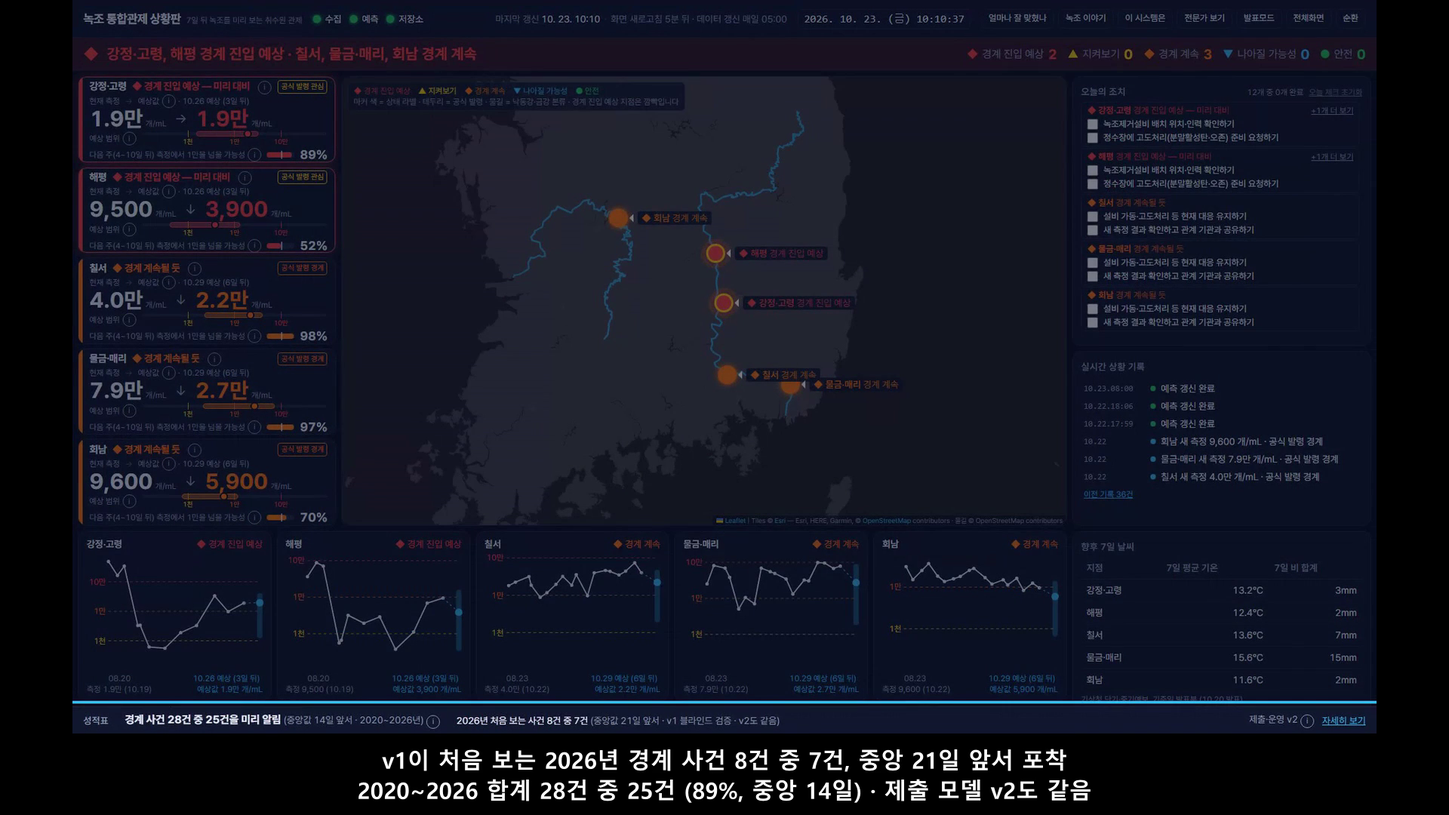
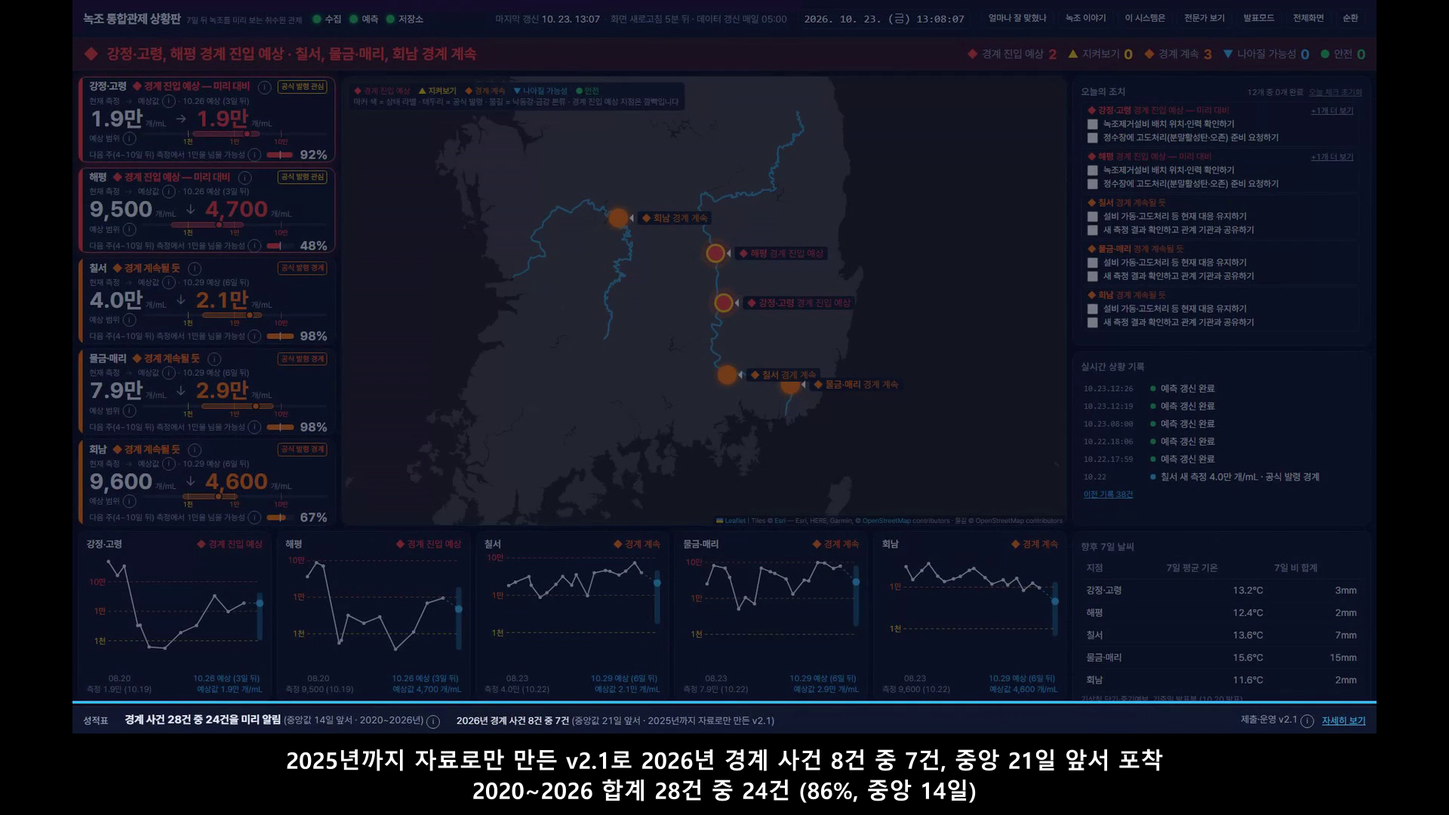
fix(package): 패키지에 derived_constants.json 포함, README v2.1·WAMIS 원값 제외 서술, 데모 영상 v5
- 빌더 CONFIG_FILES 에 config/derived_constants.json 이 빠져 패키지 노트북의 피처 생성 셀이 FileNotFoundError 로
  멈췄다(1부 녹화 중 발견). 추가 후 패키지 노트북이 끝까지 돌고 submission.csv 가 제출본과 같다(sha256 4741a3d3…)
- 사후 계산 전용 모듈(posthoc_v2.py·posthoc_v21.py)을 패키지에서 뺌
- tests/test_package_config.py: config/ 의 모든 파일이 CONFIG_FILES 에 있는지, posthoc*.py 가 빠지는지 검사
- 2026 정답 격리 테스트 허용 목록에 posthoc_2026_v21.parquet(v2.1 동결 뒤 1회 사후 계산) 추가
- 패키지 README: v2.1 구성·핵심 결과·누수 수정, WAMIS 원값 제외 근거, AI 활용(참가자 지시로 전수 점검 → 발견 → 사전등록 수정)
- 데모 영상 v5(sha256 87b6d928…): 1부 v2.1 패키지 노트북 재녹화, 2부 12개 장면 v2.1 화면 재녹화, 자막 v2.1 수치
  (28건 중 24건, 2026 은 사후 계산·블라인드 아님). v4 는 dist/backup_demo_20261023_v4/

Claude-Session: https://claude.ai/code/session_017ddh39e3MD6zytL8k6pS4n

diff --git a/scripts/build_submission_package.py b/scripts/build_submission_package.py
@@ -4,7 +4,7 @@
 패키지 루트(공지 #564): README.md, data/, model/, src/, notebooks/, scripts/, demo/, figures/
   + 루트 파일: submission.csv(제출본), 방법설명서.pdf, requirements.txt(pip freeze), pyproject.toml(설치용)
 - data/   : 대회 번들 + 외부 수집 원천 parquet + MANIFEST.md (git 미포함, 패키지 전용)
-- model/  : 동결 모델(registry current + FROZEN.md·FROZEN_v2.md 표에 적힌 버전) + registry.json + 동결 문서(sha256)
+- model/  : 동결 모델(registry current + FROZEN.md·FROZEN_v2.md·FROZEN_v2.1.md 표에 적힌 버전) + registry.json + 동결 문서(sha256)
 - src/    : 파이썬 패키지 algaecast(재현에 필요한 코드만) + src/config/(설정) + src/docs/(설계 문서)
 - scripts/: verify_frozen.py, leakage_audit.py, verify_package.py
 - demo/   : 저장소 루트 demo/ 에서 복사(AlgaeCast_demo.mp4·.srt·script.md·README_DEMO.md·captures/). raw/·tools/·.gitignore·*.webm 제외.
@@ -48,7 +48,7 @@ LEVEL_FEATURE_FILE = "level_cont_features_S1.parquet"
 # wamis_dam/ 는 통째로, hydro_daily_long 은 WAMIS 출처 행만 뺀 사본을 넣고 가공 수문 피처 파일로 재현한다.
 WAMIS_SOURCES = ("wamis_mn_dtdata", "wamis_wl_dtdata")
 WAMIS_FEATURE_FILE = "wamis_hydro_features_S1.parquet"
-DEMO_SHA_PREFIX = "0a1fb2f4"  # 2026-10-23 v4(예상값 하나로 통일한 화면 재녹화). 이전: v1 6a0d78e3·v2a 43761cbc·v3 5363e22a → dist/backup_demo_2026102*
+DEMO_SHA_PREFIX = "87b6d928"  # 2026-10-23 v5(제출 모델 v2.1 — 1부·2부 재녹화). 이전: v1 6a0d78e3·v2a 43761cbc·v3 5363e22a·v4 0a1fb2f4 → dist/backup_demo_2026102*
 # DataON 유래 파일이 있는(또는 노트북 실행으로 생기는) 폴더 — LICENSE_DataON.txt 를 붙인다
 DATAON_DIRS = ("data/raw/dataon", "data/interim", "data/processed", "src/config")
 DEMO_FILES = ["AlgaeCast_demo.mp4", "AlgaeCast_demo.srt", "script.md", "README_DEMO.md"]
@@ -66,9 +66,15 @@ CONFIG_FILES = [
     "seed.yaml",
     "dam_codes.json",
     "level_cont_stats.json",
+    "derived_constants.json",  # 데이터 유래 상수(연도별 수온 임계·선택 결정) — 계산 자료 메타데이터 포함
 ]
 SRC_SKIP = {"db", "predict"}  # 대시보드 업로드·일일 운영 코드는 재현에 불필요
-SRC_SKIP_FILES = {"live.py", "posthoc.py"}  # test 타깃 로더·사후 검증(전용) — 패키지에서 제외
+SRC_SKIP_FILES = {
+    "live.py",
+    "posthoc.py",
+    "posthoc_v2.py",
+    "posthoc_v21.py",
+}  # test 타깃 로더·사후 검증(전용) — 패키지에서 제외
 SCRIPTS = ["verify_frozen.py", "leakage_audit.py", "verify_package.py"]
 SECRET_PATTERNS = [
     r"serviceKey" "=",
@@ -275,7 +281,7 @@ def checklist(out: Path, verify: dict | None) -> str:
 
 
 def readme(info: dict, frozen: dict[str, str], sizes: dict[str, str], check_md: str) -> str:
-    """제출 패키지 README. frozen = 동결 커밋 앞 7자 {"v1": FROZEN.md, "v2": FROZEN_v2.md}."""
+    """제출 패키지 README. frozen = 동결 커밋 앞 7자 {"v1": FROZEN.md, "v2": FROZEN_v2.md, "v2.1": FROZEN_v2.1.md}."""
     return f"""# AlgaeCast-7 — 수질·수문·기상 융합 기반 댐·하천 유해남조류 7일 예측 (제출 패키지)
 
 2026 DATA·AI 분석 경진대회(KISTI) 문제해결 부문 · 참가자 이재행 · 생성일 {date.today()}
@@ -284,23 +290,23 @@ def readme(info: dict, frozen: dict[str, str], sizes: dict[str, str], check_md: 
 | 위치 | 내용 | 크기 |
 |---|---|---|
 | `README.md` | 이 문서(구성·데이터·모델·실행환경·설치·실행·AI 활용·제출 전 확인사항) | |
-| `submission.csv` | 제출본 = 제출·운영 모델 v2 예측(124행, `station_id,base_date,target_date,pred_cells`, UTF-8 BOM, 예시와 같은 행 순서). v1 제출본은 저장소 태그 `v1-submission` 에 보존 | |
+| `submission.csv` | 제출본 = 제출·운영 모델 v2.1 예측(124행, `station_id,base_date,target_date,pred_cells`, UTF-8 BOM, 예시와 같은 행 순서). 수정 전 제출본은 저장소에 보존(v1 태그 `v1-submission`, v2 동결 커밋 `{frozen['v2']}`) | |
 | `방법설명서.pdf` | 방법 설명서(배경·데이터·통계분석·피처·모델·평가·설명가능성·시스템·재현·한계, 10장) | {sizes.get('pdf', '-')} |
 | `requirements.txt` · `pyproject.toml` | 라이브러리 정확한 버전(pip freeze) · 패키지 설치 정보 | |
-| `data/` | 대회 번들(`data/raw/competition/`, 심사용 — 공개 시 제외·대회 종료 후 폐기, `README_심사용_공개시제외.txt`) + 외부 공공 데이터 스냅샷(parquet) + DataON 가공 수위 피처(`data/processed/level_cont_features_S1.parquet`; DataON 원값은 미포함, 받는 법 `data/raw/dataon/README_GET_DATAON.md`) + `data/raw/MANIFEST.md`(출처·수집일시·라이선스) | {sizes.get('data', '-')} |
-| `model/` | 동결 모델: 회귀 v2(제출·운영)·회귀 v1(블라인드 검증, 보존)·경보 분류기·분위 회귀(분류기·분위는 v1·v2 공통) + `registry.json`(current = v2) + `FROZEN_v2.md`(v2 sha256, 동결 커밋 `{frozen['v2']}`) · `FROZEN.md`(v1 sha256, 동결 커밋 `{frozen['v1']}`) | {sizes.get('model', '-')} |
-| `src/` | 파이썬 패키지 `algaecast`(정렬·피처·모델·평가, 재현에 필요한 코드만) + `src/config/`(지점·피처·모델·시드 설정, `seed.yaml`=42) + `src/docs/`(설계 문서) | {sizes.get('src', '-')} |
-| `notebooks/01_train_eval.ipynb` | 동결 모델 검증(v1·v2) → 데이터 로드·전처리 → 피처(+ v2 상류 피처) → 학습(동결 파라미터, v1·v2) → 2025 검증 지표(v1·v2 나란히) → `submission.csv`(v2) 생성 → 그림. 실행 결과(출력) 포함 | |
-| `scripts/` | `verify_frozen.py`(동결 모델 해시 검증), `leakage_audit.py`(누수 감사), `verify_package.py`(새 venv 재현 검증), `security_scan.txt` | |
+| `data/` | 대회 번들(`data/raw/competition/`, 심사용 — 공개 시 제외·대회 종료 후 폐기, `README_심사용_공개시제외.txt`) + 외부 공공 데이터 스냅샷(parquet; WAMIS 원값 제외 — `data/raw/hydro/hydro_daily_long.parquet` 는 WAMIS 출처 행을 뺀 사본) + DataON 가공 수위 피처(`data/processed/level_cont_features_S1.parquet`; DataON 원값은 미포함, 받는 법 `data/raw/dataon/README_GET_DATAON.md`) + WAMIS 가공 수문 피처(`data/processed/wamis_hydro_features_S1.parquet`, 33열; WAMIS 원값은 미포함, 받는 법 `data/raw/hydro/README_GET_WAMIS.md`) + `data/raw/MANIFEST.md`(출처·수집일시·라이선스) | {sizes.get('data', '-')} |
+| `model/` | 동결 모델: **v2.1**(제출·운영, 데이터 유래 상수 누수 수정판 — 회귀·경보 분류기·분위 회귀) + `registry.json`(current = v2.1) + `FROZEN_v2.1.md`(v2.1 sha256, 동결 커밋 `{frozen['v2.1']}`). 이력(수정 전): v1 회귀·분류기·분위(`FROZEN.md`, 동결 커밋 `{frozen['v1']}`), v2 회귀(`FROZEN_v2.md`, 동결 커밋 `{frozen['v2']}`), v1-fix 회귀(v1 구성 + 수정 피처, 민감도용, `FROZEN_v2.1.md` 표) | {sizes.get('model', '-')} |
+| `src/` | 파이썬 패키지 `algaecast`(정렬·피처·모델·평가, 재현에 필요한 코드만) + `src/config/`(지점·피처·모델·시드 설정, `seed.yaml`=42, `derived_constants.json` — 데이터 유래 상수와 계산 자료 메타데이터) + `src/docs/`(설계 문서) | {sizes.get('src', '-')} |
+| `notebooks/01_train_eval.ipynb` | 동결 모델 검증(`FROZEN.md`·`FROZEN_v2.md`·`FROZEN_v2.1.md`) → 데이터 로드·전처리 → 피처(+ 상류 피처) → 학습(동결 파라미터, v2.1·비교용 v1-fix) → 2025 검증 지표(v2.1·v1-fix 나란히) → `submission.csv`(v2.1) 생성 → 그림. 실행 결과(출력) 포함 | |
+| `scripts/` | `verify_frozen.py`(세 동결 문서 해시 검증), `leakage_audit.py`(누수 감사, 원자료부터 재계산 포함), `verify_package.py`(새 venv 재현 검증), `security_scan.txt` | |
 | `demo/` | 데모 영상 `AlgaeCast_demo.mp4`(2분 28초, 1080p H.264, 한국어 자막) · `AlgaeCast_demo.srt` · `script.md`(콘티) · `README_DEMO.md`(구성·편집 내역) · `captures/`(장면 캡처 6장). {RAW_NOTE} | {sizes.get('demo', '-')} |
 | `figures/` | 방법설명서·발표용 핵심 그림, 대시보드 스크린샷(`dashboard_*.png`), `figures/reports/`(평가·통계 표 원본 — 방법설명서 각주의 출처) | {sizes.get('figures', '-')} |
 
 ## 2. 데이터·모델 요약
 - 타깃: 조류경보제 5지점(해평·강정고령·칠서·물금매리·회남) 유해남조류 세포수(cells/mL), 기준일(base_date)+7일(±3일 매칭) 예측.
-- 입력: 조류경보제 측정(국립환경과학원), 댐·보 운영(K-water delist·WAMIS), 댐유역 하천 일평균수위(**DataON** 국가참조표준 DOI 10.20925/KSRD.74670854.v5, CC BY-NC-SA — DataON 원값은 기본 패키지에 넣지 않고 수위 피처 2열 가공 파일만 포함, 받는 법 `data/raw/dataon/README_GET_DATAON.md`, `LICENSE_DataON.txt` 첨부), ASOS 기상(기상청), 단기·중기예보(2026-10-21 이후 누적). AIDA 정규격자 자료는 계획했으나 미사용(기상 입력은 ASOS 관측소로 대체).
-- 모델: **제출·운영 모델 v2**(2026-10-22 동결, 커밋 `{frozen['v2']}`) = LightGBM 변형 3종(log 가중 회귀 C1 · hurdle C3 · tweedie C2, v1 하이퍼파라미터)에 속별 구성원 cg(Microcystis + 나머지 3속)를 더한 log10 공간 NNLS 앙상블(제출용 세포수, 가중치 c1 0.000 · c3 0.266 · c2 0.373 · cg 0.361) + 경계(+4~+10일 ≥10,000) 분류기(경보 확률) + 분위 회귀 q10/50/90(CQR 보정, 감시 규칙). 회귀 피처 35개 = 선별 30개(VIF·Boruta) + 상류 지점 피처 5열(바로 위 지점의 최근 측정, 해평·회남 결측). 분류기·분위·CQR·운영점은 v1 동결본 그대로라 감시·경보 결과는 v1 과 같다. **블라인드 검증 모델 v1**(2026-10-21 09:44 KST 봉인, 커밋 `{frozen['v1']}`) = 같은 3종 NNLS 앙상블, 피처 30개.
-- 검증: 연도 expanding-window CV(2020~2024) → 2025 홀드아웃 → **v1 동결** → 2026 블라인드 사후 검증(모델 선택·튜닝에 미사용) → v2 는 사전등록 확인 실험(EXP-confirm)으로 채택·동결 → 2026 사후 계산(모델 선택에 2026 미사용. 단 팀은 v1의 2026 결과를 이미 본 뒤 v2를 선택함, 블라인드 아님). 누수 감사: 전 샘플 재계산 불일치 0.
-- 핵심 결과: 2025 홀드아웃(같은 252행) v2 log R² 0.779 · 경계 F1 0.705 · 원단위 R² 0.176, v1 0.780 · 0.682 · 0.164(지속성 F1 0.727, 봉우리 1건이 분산의 43%). **2020~2026년 경계 사건 28건 중 25건(89%)을 첫 경계 초과 측정 기준 중앙 14일 앞서 감시 단계로 포착(지속성 3건)**, v1 봉인 후 처음 보는 **2026년 8건 중 7건을 중앙 21일 앞서** 포착(지속성 2건, 감시·경보는 v2 도 같음). 2026 test 124조합: v1(블라인드) log R² 0.488 · 원단위 R² −0.054 · F1@10k 0.705, v2(블라인드 아님) 0.521 · −0.010 · 0.824(지속성 F1 0.841). 2026 사후 성능 저하와 한계는 방법설명서 6.11절·10장.
+- 입력: 조류경보제 측정(국립환경과학원), 댐·보 운영(K-water delist·WAMIS — WAMIS 원값은 기본 패키지에 넣지 않고 수문 피처 33열 가공 파일만 포함, 받는 법 `data/raw/hydro/README_GET_WAMIS.md`), 댐유역 하천 일평균수위(**DataON** 국가참조표준 DOI 10.20925/KSRD.74670854.v5, CC BY-NC-SA — DataON 원값은 기본 패키지에 넣지 않고 수위 피처 2열 가공 파일만 포함, 받는 법 `data/raw/dataon/README_GET_DATAON.md`, `LICENSE_DataON.txt` 첨부), ASOS 기상(기상청), 단기·중기예보(2026-10-21 이후 누적). AIDA 정규격자 자료는 계획했으나 미사용(기상 입력은 ASOS 관측소로 대체).
+- 모델: **제출·운영 모델 v2.1**(2026-10-23 동결, 커밋 `{frozen['v2.1']}`, 데이터 유래 상수 누수 수정판) = LightGBM 변형 3종(log 가중 회귀 C1 · hurdle C3 · tweedie C2, v1 하이퍼파라미터)에 속별 구성원 cg(Microcystis + 나머지 3속)를 더한 log10 공간 NNLS 앙상블(제출용 세포수, 가중치 c1 0.055 · c3 0.280 · c2 0.267 · cg 0.398) + 경계(+4~+10일 ≥10,000) 분류기(경보 확률, 운영점 p ≥ 0.46 = 놓침:헛경보 비용비 r=3) + 분위 회귀 q10/50/90(CQR 보정 q̂ 0.165, 감시 규칙 q90 ≥ 10,000). 회귀 피처 35개 = 선별 30개(VIF·Boruta) + 상류 지점 피처 5열(바로 위 지점의 최근 측정, 해평·회남 결측). 분류기·분위·CQR·운영점도 수정 피처로 다시 적합했다. 데이터로 계산한 상수는 기준일까지(as-of) 또는 학습기간 자료로만 쓴다: 수위 편차 = 관측소별 직전 365일 평균 대비, 지점별 수온 임계 = 학습기간 측정만(폴드마다, 최종 ≤2025, `src/config/derived_constants.json`). 이력(수정 전): v1(2026-10-21 봉인, 커밋 `{frozen['v1']}`, 같은 3종 NNLS 앙상블·피처 30개), v2(2026-10-22 동결, 커밋 `{frozen['v2']}`, v2.1 과 같은 구성), v1-fix(v1 구성 + 수정 피처, 민감도용).
+- 검증: 연도 expanding-window CV(2020~2024) → 2025 홀드아웃(목표일 ≤2025-12-31 인 252행) → v1 동결(2026-10-21) → v2 사전등록 확인 실험(EXP-confirm)으로 채택·동결(2026-10-22) → 2026-10-23 데이터 유래 상수 전수 점검에서 누수 발견 → 사전등록(FIX-v2.1) 규칙대로 고친 v2.1 을 결과와 무관하게 채택·동결 → 2026 사후 계산(v2.1 동결 뒤 1회. 모델 선택·수정 규칙에 2026 미사용, 단 팀은 v1·v2 의 2026 결과를 이미 봤으므로 블라인드 아님). 누수 감사: 기준일까지 잘라낸 달력 재계산 표본 300·원자료부터 재계산 표본 60 불일치 0, 예전 방식 음성 대조 5/5 검출, 데이터 유래 상수 테스트 15개.
+- 핵심 결과: 2025 홀드아웃(같은 252행) v2.1 rmse_log 0.712 · log R² 0.778 · 원단위 R² 0.175 · 경계 F1 0.705(지속성 F1 0.727, 봉우리 1건이 분산의 43%). **2025년까지 자료로만 만든 모델(v2.1)로 2026년 경계 사건 8건 중 7건을 중앙 21일 앞서 감시 단계로 포착(지속성 2건)**, **2020~2026년 합계 28건 중 24건(86%)을 첫 경계 초과 측정 기준 중앙 14일 앞서 포착(지속성 3건)**. 2026 test 124조합: v2.1 log R² 0.520 · 원단위 R² 0.001 · F1@10k 0.826(지속성 F1 0.841). 누수 수정: 수정 전 v1·v2 가 일부 데이터 유래 상수(수위 편차 관측소 평균·지점별 수온 임계·ASOS 관측소 선정)를 2026 자료까지 포함해 계산했음을 2026-10-23 사후 발견해 사전등록 규칙대로 고쳤고(2020~2025 포착 18 → 17건, 합계 25/28 → 24/28, 2026 은 7/8 로 같음), v1 봉인본의 2026 7/8 은 이력으로만 남긴다. 2026 사후 성능 저하와 한계는 방법설명서 5.11절·6.11절·10장.
 
 ## 3. 실행 환경
 - OS {info['os']}, Python {info['python']}, lightgbm {info['lightgbm']}, scikit-learn {info['scikit-learn']}, pandas {info['pandas']}, numpy {info['numpy']}, jupyterlab {info['jupyterlab']}. **GPU 미사용(CPU 전용)**.
@@ -314,12 +320,13 @@ python -m venv .venv && .venv/Scripts/python -m pip install -r requirements.txt 
 ```
 - 화면에서 셀 단위로 실행해 보려면: `.venv/Scripts/jupyter lab notebooks/01_train_eval.ipynb` (위 2줄 설치 후).
 - 재현 소요 시간: 약 20분(대부분 피처 생성, 8코어 CPU 기준). 결과 `submission.csv` 는 제출본과 바이트 동일(`scripts/verify_package.py` 로 새 가상환경에서 확인).
-- **DataON 원자료는 재현에 필요 없다.** 수위 피처 2열(`level_cont_t0`·`level_cont_diff7`)은 `data/processed/level_cont_features_S1.parquet` 에서 채운다(원자료가 있든 없든 `features_S1` 완전 일치·`submission.csv` 바이트 동일, 2026-10-23 확인). 원자료부터 다시 만드는 경로는 `data/raw/dataon/README_GET_DATAON.md`.
+- **DataON 원자료는 재현에 필요 없다.** 수위 피처 2열(`level_cont_t0`·`level_cont_diff7`)은 `data/processed/level_cont_features_S1.parquet` 에서 채운다(패키지를 만들 때 이 파일이 원자료로 계산한 `features_S1` 의 두 열과 완전히 같은지 검사). 원자료부터 다시 만드는 경로는 `data/raw/dataon/README_GET_DATAON.md`.
+- **WAMIS 원자료도 재현에 필요 없다.** 수문 피처 33열은 `data/processed/wamis_hydro_features_S1.parquet` 에서 채운다. `data/raw/hydro/hydro_daily_long.parquet` 는 WAMIS 출처 행을 뺀 사본(K-water delist·다목적댐·대회 번들 행)이다. 원자료부터 다시 만드는 경로와 같은 값을 받는 공식 경로(공공데이터포털 #3068550·#3040409)는 `data/raw/hydro/README_GET_WAMIS.md`.
 - **외부 API는 재현에 필요 없다.** `data/` 스냅샷만 사용한다. 공공 API 키(.env)는 대시보드 일일 운영(GitHub Actions)에만 쓰이며 패키지에 포함되지 않는다.
 - 대시보드(운영 데모): https://algaecast-7.vercel.app · 저장소: https://github.com/LeeJaeHaeng/AlgaeCast (private)
 
 ## 5. AI 활용범위 및 주요 검토 과정 [검토 필요 — 참가자 직접 검토·수정 예정]
-- **활용 도구**: 기획·검토 — Claude 채팅(claude.ai) [검토 필요: 실제 사용 모델 확인]; 구현 — Claude Code(CLI). 구현 모델은 Claude Fable 5.1(수집·분석·모델·평가·DB·대시보드·데모 영상), 최종 패키징 일부는 Claude Opus 5.5.
+- **활용 도구**: 기획·검토 — Claude 채팅(claude.ai) [검토 필요: 실제 사용 모델 확인]; 구현 — Claude Code(CLI). 구현 모델은 Claude Fable 5.1(수집·분석·모델·평가·DB·대시보드·데모 영상), 데이터 유래 상수 누수 점검·수정(FIX-v2.1)과 최종 패키징 일부는 Claude Opus 5.5.
 - **활용 단계**: 데이터 조사·수집기(T1), 통계분석 노트북(T2), 피처·누수 테스트(T3), 모델 튜닝·실험 러너(T4), 평가 보고서(T5), DB·대시보드·자동화(T6~T8), 제출 패키지·방법설명서 초안·데모 영상(T9).
 - **주요 활용 내용**: 공공 API 수집기(캐시·재시도), 피처 함수와 누수 감사, Optuna 튜닝 파이프라인, 통계 검정·그림, Next.js 관제 대시보드, GitHub Actions 일일 자동화, 데모 영상 녹화·편집 스크립트, 방법설명서 초안(모든 수치는 `figures/reports/` 표에서 인용).
 
@@ -329,15 +336,16 @@ python -m venv .venv && .venv/Scripts/python -m pip install -r requirements.txt 
 |---|---|---|
 | 입력 데이터 | 대회 번들에 공공 API 다수 추가(AIDA 격자 포함) | DataON 국가참조표준 수위와 보 운영자료를 1차 입력으로 확정. AIDA 격자는 미사용(ASOS 대체) |
 | 원단위 R²·NSE 미달 | 6개 변형 × 3개 보정(smearing·isotonic·CQR) 실험, 결과가 좋은 조합 채택 | 채택 절차(CV 기준)를 고정하고 2025 결과를 보고 규칙을 바꾸지 않음. 원단위 지표는 표 첫 줄에 그대로 보고하고 민감도(봉우리 1건 = 분산 43%) 병기 |
-| 경보 체계 | 분류기(a)·(b)·스태킹·q90 규칙 비교 | 2단계로 확정: 감시 = CQR 보정 q90 ≥ 10,000, 경보 = 분류기(b) p ≥ 0.52(놓침:헛경보 비용비 r=3) |
-| 2026 평가 | 평가 타깃 격리 로더·사후 검증 스크립트 | v1 동결(커밋 {frozen['v1']}) 후 사후 검증만 수행(블라인드). 성능 저하도 그대로 기록. v2 의 2026 은 v2 동결 뒤 1회 계산했고, v1 결과를 본 뒤 v2 를 골랐으므로 모든 표에 '블라인드 아님'을 명기 |
+| 경보 체계 | 분류기(a)·(b)·스태킹·q90 규칙 비교 | 2단계로 확정: 감시 = CQR 보정 q90 ≥ 10,000, 경보 = 분류기(b) p ≥ 운영점(놓침:헛경보 비용비 r=3 규칙, v1·v2 0.52 → v2.1 재적합 0.46) |
+| 2026 평가 | 평가 타깃 격리 로더·사후 검증 스크립트 | v1 동결(커밋 {frozen['v1']}) 후 사후 검증만 수행. 성능 저하도 그대로 기록. 뒤에 v1 봉인 당시 일부 상수가 2026 자료를 포함해 계산된 사실을 발견해 v1 의 2026 결과는 이력으로만 표기. v2·v2.1 의 2026 은 각 동결 뒤 1회 계산했고, 앞선 2026 결과를 본 뒤 만든 모델이므로 모든 표에 '블라인드 아님'을 명기 |
 | 우선순위 | 취수용량 가중 우선순위 | 공식 출처가 없는 가중치는 쓰지 않음. 단계 → 경계 확률 순 |
-| 성과 표현 | 2020~2025 경계 사건 20건 중 18건 | 2026 포함 28건 중 25건(89%)·중앙 14일, 2026년 8건 중 7건·중앙 21일로 통일하고 지속성(3건) 병기 |
+| 성과 표현 | 2020~2025 경계 사건 20건 중 18건 | 2026 포함 합계와 2026년을 함께 쓰고 지속성(3건) 병기. v2.1 기준 '2025년까지 자료로만 만든 모델로 2026년 8건 중 7건·중앙 21일, 2020~2026년 28건 중 24건(86%)·중앙 14일'(수정 전 25건(89%)), 수정본은 블라인드라고 부르지 않음 |
+| 데이터 유래 상수 누수 | 참가자 지시로 전수 점검(15개 항목) → 수위 평균·수온 임계·ASOS 선정·보현산댐 문제 발견 → 사전등록 수정 규칙 제안 | 사전등록 승인, v2.1 을 결과와 무관하게 채택, 2026 사후 1회, v1 7/8 은 이력으로 |
 | 대시보드 | 위험 단계 3색 표시 | 공식 발령 × AI 예상 조합 5단계 라벨(경계 진입 예상·지켜보기·경계 계속될 듯·나아질 가능성·안전), 쉽게 보기 기본 |
 | 영상 자료 | CCTV·위성 지수 연계 조사 | 예측 입력에는 쓰지 않음(아래 요약). 향후 과제로 분리 |
 | 원단위 고도화(동결 뒤) | 문헌 기반 7종(R1~R7) 실험과 누적 결합, 규칙상 후보 B(전국 통합 학습 + C1 단독 점예측) | B 기각(2025 원단위 R² 0.166 → −0.220). 견고성 대안 C 는 실행 전 등록한 확인 실험 1회로만 판정하도록 정함(조건 충족·채택 → 아래 사전등록 판정 절차를 거쳐 v2 로 동결) |
 
-**사전등록 판정 절차(제출 모델 v1 → v2) — AI 제안 → 참가자 결정**
+**사전등록 판정 절차(제출 모델 v1 → v2 → v2.1) — AI 제안 → 참가자 결정**
 
 | 단계 | AI 제안 | 참가자 결정 |
 |---|---|---|
@@ -346,22 +354,24 @@ python -m venv .venv && .venv/Scripts/python -m pip install -r requirements.txt 
 | 판정 | 실행·독립 검증: Δ +0.116(하한 +0.053), 대조군 대비 +0.084, 2025 r2_raw 0.166 · rmse_log 0.713 · F1 0.687 · 리드 18/20, 누수 테스트 67개 통과 → 조건 충족 | 채택. 2025 원단위 R² 는 v1 과 같아 개선이 CV 에서만 확인됐다는 점을 그대로 기록 |
 | 2차 고도화(EXP-005) | C 기준 6개 계열(P0~P6)과 종합 기준 (a)~(d) 사전등록, 최선 후보 C + 칼만 구성원 판정 | 기준 미충족(CV +0.040 < +0.08, 2025 rmse_log 0.7227 > 0.7217)으로 기각. P3(단기예보)만 마지막으로 1회 시도해 통과하면 C+P3, 아니면 C 로 사전 결정 |
 | P3 재시도 | 승인 API 표본 호출(중기·특보는 자료 403 → 제외), 단기예보 격자 수집·사전등록·판정 | 미통과(a1 −0.0023 등) → 최종 모델 C 를 v2 로 동결(커밋 {frozen['v2']}), 제출본을 v2 로 교체, v1 제출본은 태그 `v1-submission` 에 보존 |
-| 2026 표기 | v2 의 2026 사후 계산을 v1 과 나란히 보고 | 블라인드 검증 서사는 v1 의 '2026 경계 사건 8건 중 7건'으로 유지. v2 의 2026 수치가 담긴 모든 표에 "모델 선택에 2026 미사용. 단 팀은 v1의 2026 결과를 이미 본 뒤 v2를 선택함(블라인드 아님)" 명기 |
+| 2026 표기 | v2 의 2026 사후 계산을 v1 과 나란히 보고 | 당시에는 블라인드 검증 서사를 v1 의 '2026 경계 사건 8건 중 7건'으로 유지하고, v2 의 2026 수치가 담긴 모든 표에 "모델 선택에 2026 미사용. 단 팀은 v1의 2026 결과를 이미 본 뒤 v2를 선택함(블라인드 아님)" 명기. 이 서사는 아래 누수 수정 뒤 철회 |
+| 누수 수정(FIX-v2.1) | 데이터 유래 상수 15개 항목 점검표와 수정 규칙 R1~R7(수위 편차 as-of, 학습기간 수온 임계, 선택 결정 ≤2024 재계산, 구성 고정, 데이터 적합 부분 재적합, 선별 재실행은 참고만)을 결과 계산 전에 커밋. 영향은 같은 252행·CV 에서 나란히 보고 | 사전등록 승인. 규칙 위반 수정이므로 v2.1 을 결과와 무관하게 채택·동결(커밋 {frozen['v2.1']}), 제출본을 v2.1 로 교체. 2026 은 동결 뒤 1회만 계산하고 결과로 판정을 바꾸지 않음. 헤드라인은 v2.1 로 쓰고 수정본은 블라인드라 부르지 않으며, v1 의 2026 7/8 은 이력으로만 표기 |
 
-- **검토한 대안·실패 사례**: 원단위 R² 개선 6개 변형×3개 보정 — 어떤 조합도 0.2를 넘지 못함(isotonic 은 악화); 경보 분류기·스태킹·q90 규칙 — 2025 전체 F1 에서 지속성(0.727)을 넘지 못함(진입 구간 재현율·PR-AUC·리드타임에서만 우위); hurdle·tweedie 단일 모델 — CV 에서 C1 과 차이 미미; 물모아 공식 예측 벤치마크 — 단계만 제공돼 분류 비교로 전환(누적 중); 외부 유역강수 CSV — 미수령으로 보류. 동결 뒤 원단위 R² 고도화 7종(EXP-004~010: 분산 반영 원단위 복원, 상류 지점 피처, 속별 모델, 영양염, 전국 82개 경보지점 통합 학습, 수질자동측정망, 희소 사건 재표본·가중) — CV 채택 기준(r2_raw +0.10·rmse_log 악화 0.01 이내·리드 유지)을 넘은 3종도 2025 확인에서 원단위 R² 가 v1(0.166)보다 좋아지지 않음(−0.66~0.16); CV 원단위 R² 는 시드만 바꿔도 ±0.02~0.04, 난수 열을 더해도 +0.04 움직이는 잡음이 있음; 원단위 이득 대부분은 새 정보가 아니라 점예측 방식(로그 공간 앙상블 → 원단위 맞춤 단일 모델)에서 나오고 2025 에서 유지되지 않음; 누적 결합 후보 B(낙동강·금강 통합 학습 + C1 단독, CV +0.150)는 2025 −0.220 으로 기각; 새 정보 계열(영양염·자동측정망·전국 통합)은 2025 에서 효과 없음; 견고성 대안 C(v1 + 상류 피처 + 속별 구성원)는 사전등록 확인 실험에서 CV +0.116(대조군 대비 +0.084)·2025 비열등으로 채택 조건 충족(2025 원단위 R² 0.166 으로 v1 과 같음) → v2 로 동결; 2차 고도화(EXP-005: 채수 위치 변경 진단, 변화량 타깃·성장 기작, 과거 단기예보, 칼만 상태공간, 국면·아날로그, 상류 댐 부하) — 사전등록 기준을 넘은 구성 없음(최선 C + 칼만 CV +0.040, P3 단기예보 미통과), 측정 잡음만 있는 완벽한 모형 가정의 추정 상한: 로그 R² 0.91~0.94, 2025 원단위 R² 0.36~0.47; Sentinel-2 위성 지표는 기대 이득 대비 비용이 커 보류(상세 figures/reports/experiments/EXP-summary.md·EXP-005/EXP-summary2.md, 방법설명서 5.8~5.10절).
+- **검토한 대안·실패 사례**: 원단위 R² 개선 6개 변형×3개 보정 — 어떤 조합도 0.2를 넘지 못함(isotonic 은 악화, 수정 전 계산); 경보 분류기·스태킹 — 2025 전체 F1 에서 지속성(0.727)을 넘지 못함(진입 구간 재현율·PR-AUC·리드타임에서 우위, v2.1 재적합에서는 q90 규칙만 0.773 으로 지속성을 넘음); hurdle·tweedie 단일 모델 — CV 에서 C1 과 차이 미미; 물모아 공식 예측 벤치마크 — 단계만 제공돼 분류 비교로 전환(누적 중); 외부 유역강수 CSV — 미수령으로 보류. 동결 뒤 원단위 R² 고도화 7종(EXP-004~010: 분산 반영 원단위 복원, 상류 지점 피처, 속별 모델, 영양염, 전국 82개 경보지점 통합 학습, 수질자동측정망, 희소 사건 재표본·가중) — CV 채택 기준(r2_raw +0.10·rmse_log 악화 0.01 이내·리드 유지)을 넘은 3종도 2025 확인에서 원단위 R² 가 v1(0.166)보다 좋아지지 않음(−0.66~0.16); CV 원단위 R² 는 시드만 바꿔도 ±0.02~0.04, 난수 열을 더해도 +0.04 움직이는 잡음이 있음; 원단위 이득 대부분은 새 정보가 아니라 점예측 방식(로그 공간 앙상블 → 원단위 맞춤 단일 모델)에서 나오고 2025 에서 유지되지 않음; 누적 결합 후보 B(낙동강·금강 통합 학습 + C1 단독, CV +0.150)는 2025 −0.220 으로 기각; 새 정보 계열(영양염·자동측정망·전국 통합)은 2025 에서 효과 없음; 견고성 대안 C(v1 + 상류 피처 + 속별 구성원)는 사전등록 확인 실험에서 CV +0.116(대조군 대비 +0.084)·2025 비열등으로 채택 조건 충족(2025 원단위 R² 0.166 으로 v1 과 같음) → v2 로 동결 → 2026-10-23 데이터 유래 상수 누수 수정으로 같은 구성을 수정 피처로 다시 적합한 v2.1 로 대체(같은 252행 2025 원단위 R² 0.175, v2 0.176; 이 실험들은 모두 수정 전 피처로 계산); 수정 피처로 다시 돌린 선별(참고) — `ss_sum7`·`residence_proxy_ma14` 추가, `outflow_t0`·`ws_mean7` 제외로 목록이 달라졌으나 사전등록대로 채택하지 않음; 2차 고도화(EXP-005: 채수 위치 변경 진단, 변화량 타깃·성장 기작, 과거 단기예보, 칼만 상태공간, 국면·아날로그, 상류 댐 부하) — 사전등록 기준을 넘은 구성 없음(최선 C + 칼만 CV +0.040, P3 단기예보 미통과), 측정 잡음만 있는 완벽한 모형 가정의 추정 상한: 로그 R² 0.91~0.94, 2025 원단위 R² 0.36~0.47; Sentinel-2 위성 지표는 기대 이득 대비 비용이 커 보류(상세 figures/reports/experiments/EXP-summary.md·EXP-005/EXP-summary2.md, 방법설명서 5.8~5.10절).
 - **CCTV·위성 영상 연계 검토(미채택) 요약** (상세: `src/docs/13_CCTV_FEASIBILITY.md`, 방법설명서 10장):
   - 5지점 반경 5 km 안에서 수면이 보이는 공개 CCTV는 강정·고령(낙동강홍수통제소 사문진교 3.9 km), 칠서(계내리 1.5 km, 1080p), 물금·매리(월촌리 2.3 km) 3곳뿐이고, 해평(최근접 6.6 km)과 회남(10 km 안에 없음)은 불가로 판정했다.
   - 대시보드에 영상을 직접 붙이는 것은 불가하다. 낙동강 뷰어는 외부 iframe 을 막고(`X-Frame-Options: sameorigin`), 영상 페이지에 공공누리 표시가 없어 기관과 사전 협의가 필요하며, K-water CCTV 는 30초 재생 제한·공공누리 제4유형(변경 금지)이다.
   - 3지점에 한해 정지영상 주기 캡처로 "영상 녹조 색 지수"(녹색 색도·초과녹색·녹색 면적 비율, 야간·역광·강우·카메라 이동 제외 규칙)를 설계했으나, 이 지수는 **예측 모델 입력에 쓰지 않으며** 실측과의 상관은 한 시즌 이상 자료가 쌓인 뒤 평가한다.
   - 비교용 Sentinel-2 NDCI 는 B5(705 nm) 때문에 실효 해상도가 20 m 이며, 2017~2025년 5지점 구축에 약 7~9 반나절이 든다고 추정했다.
-- **최종 선택 이유**: CV 복합점수 기준 채택 절차를 고정해 홀드아웃 과적합을 막았고, 제출 모델 교체(v1 → v2)도 실행 전에 등록한 조건으로만 판정했다. 운영 목적(발령 선행 판단)에 맞는 지표(log R²·경보 F1·리드타임)로 평가했으며, 재현 가능한 동결 모델과 공개 데이터 스냅샷으로 전 과정을 패키지화했다.
+- **최종 선택 이유**: CV 복합점수 기준 채택 절차를 고정해 홀드아웃 과적합을 막았고, 제출 모델 교체(v1 → v2)도 실행 전에 등록한 조건으로만 판정했다. 데이터 유래 상수 누수는 규칙 위반이므로 결과 계산 전에 등록한 규칙대로 고친 v2.1 을 결과와 무관하게 제출·운영 모델로 정했다. 운영 목적(발령 선행 판단)에 맞는 지표(log R²·경보 F1·리드타임)로 평가했으며, 재현 가능한 동결 모델과 공개 데이터 스냅샷으로 전 과정을 패키지화했다.
 
 ## 6. 라이선스·출처
-`data/raw/MANIFEST.md` 참조(첫 표 라이선스 칸과 '라이선스 확인' 절 — 2026-10-22~23 각 출처 페이지에서 다시 확인). 외부 데이터는 출처별 라이선스를 MANIFEST 에 기록하고 그 조건을 지킨다. 공공데이터포털 자료는 공공누리 제1유형(출처표시) 또는 이용허락범위 제한 없음이고, WAMIS 자료는 공공데이터포털 #3068550(한강홍수통제소_수자원 정보, 이용허락범위 제한 없음) 등록분을 근거로 하며, DataON 수위 자료는 CC BY-NC-SA(저작자표시-비영리-동일조건변경허락)다. 라이선스를 확인하지 못한 물환경정보시스템 수질자동측정소 목록·좌표는 실험(EXP-009) 전용이며 제출 모델에 쓰지 않았고 이 패키지에 넣지 않았다.
+`data/raw/MANIFEST.md` 참조(첫 표 라이선스 칸과 '라이선스 확인' 절 — 2026-10-22~23 각 출처 페이지에서 다시 확인). 외부 데이터는 출처별 라이선스를 MANIFEST 에 기록하고 그 조건을 지킨다. 공공데이터포털 자료는 공공누리 제1유형(출처표시) 또는 이용허락범위 제한 없음이다. WAMIS 자료는 개방 API 의 인증키 없는 엔드포인트로 수집했고(회원가입 안 함, 저장소의 `WAMIS_KEY` 는 실제로는 한강홍수통제소 OpenAPI 키이며 수집에 쓰지 않음), 같은 값이 공공데이터포털 #3068550(한강홍수통제소_수자원 정보)·#3040409(한강홍수통제소_표준수문DB)에 이용허락범위 제한 없음으로 등록돼 있다. DataON 수위 자료는 CC BY-NC-SA(저작자표시-비영리-동일조건변경허락)다. 라이선스를 확인하지 못한 물환경정보시스템 수질자동측정소 목록·좌표는 실험(EXP-009) 전용이며 제출 모델에 쓰지 않았고 이 패키지에 넣지 않았다.
 
+- **WAMIS 원값은 이 패키지에 넣지 않았다.** WAMIS OPEN API 회원약관 제15조④(회원은 서비스를 이용해 얻은 정보를 사전 승낙 없이 복제·제공할 수 없음)가 회원이 아닌 이용자에게도 적용되는지 약관만으로 분명하지 않기 때문이다. 빠진 파일은 `data/raw/wamis_dam/` 과 `data/raw/hydro/hydro_daily_long.parquet` 의 WAMIS 출처 행이다. 대신 가공 수문 피처 `data/processed/wamis_hydro_features_S1.parquet`(33열)를 넣었고, 원값을 받는 공식 경로·라이선스·재생성 명령은 `data/raw/hydro/README_GET_WAMIS.md` 에 적었다. 출처 표시: 한강홍수통제소 국가수자원관리종합정보시스템(WAMIS).
 - **대회 제공 데이터**(`data/raw/competition/`): 참가신청서 경진대회 규정 3항(승인 목적 외 이용 금지, 제3자 열람·제공·대여·판매 금지, 대회 완료 후 폐기, 성과물 발생 시 출처 명시)에 따라 **심사용으로만** 넣었다. 공개할 때는 이 폴더를 빼고, 대회가 끝나면 폐기한다(`README_심사용_공개시제외.txt`).
 - **DataON 유래 데이터와 그 가공물은 CC BY-NC-SA 로만 재배포할 수 있다.** 원 자료: 「댐유역 하천 일평균수위」(국가참조표준), 생산 한국수자원공사 오재우·이영창·이재용, 발행 국가참조표준센터, DOI 10.20925/KSRD.74670854.v5, 제·개정 2025-12-16.
-- 이 패키지(기본 zip 2종)의 DataON 유래 파일: `data/processed/level_cont_features_S1.parquet`(수위 피처 2열 가공값, 2,979행), `src/config/level_cont_stats.json`(집계 통계, 일일 운영용), 노트북 실행으로 생기는 `data/processed/features_*.parquet` 의 `level_cont_*` 열. 해당 폴더마다 `LICENSE_DataON.txt` 를 붙였다. **DataON 원값(연속 수위 시계열·원 배포 xlsx)은 넣지 않았다**(받는 법: `data/raw/dataon/README_GET_DATAON.md`).
+- 이 패키지(기본 zip 2종)의 DataON 유래 파일: `data/processed/level_cont_features_S1.parquet`(수위 피처 2열 가공값, 2,979행), `src/config/level_cont_stats.json`(기준면 오프셋·관측소 목록, 일일 운영용), 노트북 실행으로 생기는 `data/processed/features_*.parquet` 의 `level_cont_*` 열. 해당 폴더마다 `LICENSE_DataON.txt` 를 붙였다. **DataON 원값(연속 수위 시계열·원 배포 xlsx)은 넣지 않았다**(받는 법: `data/raw/dataon/README_GET_DATAON.md`).
 - DataON 원값(연속 수위 시계열 스냅샷)이 든 대체 zip `{ZIP_DATAON}` 은 기본 제출본이 아니며, 운영사무국이 허용한 경우에만 쓴다.
 
 ## 7. 제출 전 확인사항 (공지 #564)
@@ -438,9 +448,9 @@ def scan_secrets(root: Path) -> list[str]:
 
 
 def frozen_commits(model_dir: Path) -> dict[str, str]:
-    """동결 문서(v1 FROZEN.md, v2 FROZEN_v2.md)의 동결 커밋 앞 7자. 문서가 없거나 형식이 다르면 '?'."""
+    """동결 문서(v1 FROZEN.md, v2 FROZEN_v2.md, v2.1 FROZEN_v2.1.md)의 동결 커밋 앞 7자. 문서가 없거나 형식이 다르면 '?'."""
     out = {}
-    for key, doc in (("v1", "FROZEN.md"), ("v2", "FROZEN_v2.md")):
+    for key, doc in (("v1", "FROZEN.md"), ("v2", "FROZEN_v2.md"), ("v2.1", "FROZEN_v2.1.md")):
         p = model_dir / doc
         m = re.search(r"동결 커밋: `([0-9a-f]+)`", p.read_text(encoding="utf-8")) if p.exists() else None
         out[key] = m.group(1)[:7] if m else "?"

diff --git a/tests/test_package_config.py b/tests/test_package_config.py
@@ -1,0 +1,32 @@
+"""제출 패키지에 설정 파일이 빠지지 않는다 — config/ 의 모든 파일이 빌더 CONFIG_FILES 에 있어야 한다.
+
+2026-10-23 FIX-v2.1 에서 새 설정 파일(derived_constants.json)을 빌더 목록에 넣지 않아 패키지 노트북의 피처 생성이
+FileNotFoundError 로 멈춘 일이 있었다(녹화 중 발견). 새 설정 파일을 만들면 이 테스트가 빌더 목록 갱신을 강제한다.
+"""
+
+from __future__ import annotations
+
+import importlib.util
+
+from algaecast.config import ROOT
+
+
+def _builder():  # noqa: ANN202 — 스크립트 모듈을 파일 경로로 불러온다
+    spec = importlib.util.spec_from_file_location(
+        "build_pkg", ROOT / "scripts" / "build_submission_package.py"
+    )
+    mod = importlib.util.module_from_spec(spec)
+    spec.loader.exec_module(mod)
+    return mod
+
+
+def test_all_config_files_are_packaged() -> None:
+    files = sorted(p.name for p in (ROOT / "config").iterdir() if p.is_file())
+    missing = [f for f in files if f not in _builder().CONFIG_FILES]
+    assert not missing, f"빌더 CONFIG_FILES 에 없는 설정 파일: {missing}"
+
+
+def test_posthoc_modules_are_not_packaged() -> None:
+    skip = _builder().SRC_SKIP_FILES
+    posthoc = sorted(p.name for p in (ROOT / "src" / "algaecast" / "eval").glob("posthoc*.py"))
+    assert posthoc and all(f in skip for f in posthoc), f"사후 계산 모듈은 패키지에서 빼야 한다: {posthoc}"

diff --git a/scripts/verify_package.py b/scripts/verify_package.py
@@ -27,7 +27,7 @@ import zipfile
 from pathlib import Path
 
 ROOT = Path(__file__).resolve().parents[1]
-DEMO_SHA_PREFIX = "0a1fb2f4"  # 2026-10-23 v4(예상값 하나로 통일한 화면 재녹화). 이전: v1 6a0d78e3·v2a 43761cbc·v3 5363e22a → dist/backup_demo_2026102*
+DEMO_SHA_PREFIX = "87b6d928"  # 2026-10-23 v5(제출 모델 v2.1 — 1부·2부 재녹화). 이전: v1 6a0d78e3·v2a 43761cbc·v3 5363e22a·v4 0a1fb2f4 → dist/backup_demo_2026102*
 
 
 def run(cmd: list[str], cwd: Path, log: Path) -> int:

diff --git a/tests/test_no_2026_targets_outside_live.py b/tests/test_no_2026_targets_outside_live.py
@@ -33,6 +33,7 @@ ALLOWED = {
     "data/processed/test_targets_DO_NOT_USE.parquet",
     "data/processed/posthoc_2026.parquet",
     "data/processed/posthoc_2026_v2.parquet",
+    "data/processed/posthoc_2026_v21.parquet",  # v2.1 동결 뒤 1회 사후 계산(eval.posthoc_v21)
 }
 TABLE_SUFFIX = (".parquet", ".csv", ".json")
 

diff --git a/demo/README_DEMO.md b/demo/README_DEMO.md
@@ -1,12 +1,11 @@
 # 데모 영상 — AlgaeCast-7 녹조 통합관제 상황판
 
-- 파일: `AlgaeCast_demo.mp4` (H.264, 1920×1080, 30fps, 2분 28초, 약 21 MB, 무음, sha256 `0a1fb2f4…`) · 자막 원본 `AlgaeCast_demo.srt`(영상에 하드 자막으로 입혀져 있음) · 콘티 `script.md` · 장면 캡처 `captures/`
-- 판: **v4(2026-10-23 10시)**. 화면의 예측값을 하나로 통일한 뒤(쉽게 보기 큰 숫자 '예상값' = 제출 모델 v2 점예측, 웹 커밋 `0f48ec8`) 운영 화면 10개 장면을 다시 녹화하고 자막을 고쳤다. v3(2026-10-22 18시)는 제출 모델을 v2(최종 모델 C, 동결 커밋 9dca86c)로 바꾸고 운영 화면 최신 예측도 v2 로 바꾼 판이다.
-  - 이전 판: v1 영상(sha256 `6a0d78e3…`)은 `dist/backup_demo_20261022_v1/`, v2 판 첫 영상(sha256 `43761cbc…`, 2부 대부분이 10-21 v1 운영 화면)은 `dist/backup_demo_20261022_v2a/`, v3 영상(sha256 `5363e22a…`, 타일에 v1 공유 분위 중앙값과 v2 한 값을 함께 표시)은 `dist/backup_demo_20261023_v3/` 에 보존한다.
+- 파일: `AlgaeCast_demo.mp4` (H.264, 1920×1080, 30fps, 2분 28초, 약 22 MB, 무음, sha256 `87b6d928…`) · 자막 원본 `AlgaeCast_demo.srt`(영상에 하드 자막으로 입혀져 있음) · 콘티 `script.md` · 장면 캡처 `captures/`
+- 판: **v5(2026-10-23 13시)**. 제출·운영 모델을 v2.1(데이터 유래 상수 누수 수정판, 동결 커밋 217260e)로 바꾼 뒤 1부(노트북)를 v2.1 패키지로, 2부(운영 화면) 12개 장면을 모두 다시 녹화하고 자막을 고쳤다. v4(2026-10-23 10시)는 화면의 예측값을 하나로 통일한 v2 판이다.
+  - 이전 판: v1 영상(sha256 `6a0d78e3…`)은 `dist/backup_demo_20261022_v1/`, v2 판 첫 영상(sha256 `43761cbc…`)은 `dist/backup_demo_20261022_v2a/`, v3 영상(sha256 `5363e22a…`)은 `dist/backup_demo_20261023_v3/`, v4 영상(sha256 `0a1fb2f4…`, 제출 모델 v2·헤드라인 28건 중 25건)은 `dist/backup_demo_20261023_v4/` 에 보존한다.
 - 녹화:
-  - 1부(노트북)는 2026-10-22 v2 패키지로 전부 다시 녹화했다.
-  - 2부(운영 화면)는 예측값이 보이는 장면(메인·배너·타일·지도·지점 상세·근거·이력·순환 모드·성적표 띠)과 성능 큰 숫자, 모두 10개를 새 화면(예상값 하나)으로 다시 녹화했다(프로덕션, 2026-10-23 10:09~10:11).
-  - 원래 목표 지표는 2026-10-22 17:07 녹화(v1·v2 병기, 숫자 그대로), 비교 막대·시간표는 2026-10-21 녹화를 다시 썼다(예측값이 없는 장면, 숫자 변화 없음).
+  - 1부(노트북)는 2026-10-23 12:45~13:05 v2.1 패키지로 전부 다시 녹화했다. 노트북이 패키지 안에서 만든 submission.csv 는 제출본과 같다(sha256 `4741a3d3…`).
+  - 2부(운영 화면)는 12개 장면(메인·배너·타일·지도·지점 상세·근거·이력·성능 큰 숫자·비교 막대와 시간표·원래 목표 지표·순환 모드·성적표 띠)을 모두 v2.1 화면으로 다시 녹화했다(프로덕션, 웹 커밋 `387acfa`, 2026-10-23 13:06~13:08).
   - 화면 수치는 녹화 시점 기준이다(기준일 10.19~10.22 측정, 다음 측정이 들어오면 운영 화면 값은 바뀐다).
 - 제작: Playwright 1.50.1(Chromium 1920×1080 녹화) + ffmpeg(이어 붙이기·속도 조절·libass 하드 자막). 조립 스크립트는 `tools/assemble3.py`.
   - JupyterLab 은 녹화용 가상환경에만 설치했고, 패키지 `requirements.txt` 에는 넣지 않았다.
@@ -16,14 +15,46 @@
 | 구간 | 내용 | 녹화 |
 |---|---|---|
 | 0:00~0:08 | 타이틀 2장("5개 상수원 지점의 녹조를 7일 앞서 예측합니다" → "제출 패키지 노트북을 처음부터 실행합니다") · 자막 없음 | v1 영상에서 잘라 씀(숫자 없음) |
-| 0:08~0:51 | 추론 과정: v2 패키지 `notebooks/01_train_eval.ipynb` 를 새 가상환경 JupyterLab 에서 위에서부터 실행<br>① 봉인 모델 검증(FROZEN.md·FROZEN_v2.md 해시 OK) → ② 자료 로드·일 달력 정렬 → ③ 특징 35개·평가 정답 격리 → ④ 학습 + 2025 검증표(v2·v1 나란히: v2 로그 설명력 0.779, 경계 맞힘 0.705) → ⑤ submission.csv 124행 생성·검증(sha256 `0c77ac8e…`) | 2026-10-22 |
-| 0:51~1:47 | 운영 화면(v2 최신 예측, 예상값 하나): 메인 상황판(첫 장면 자막에 녹화일·기준일) → 배너 → 강정·고령 타일(공식 관심 / AI 경계 진입 예상, 예상값 1.9만 개/mL·1만 넘을 가능성 89%) → 지도 → 지점 상세(예상값 1.9만이 경계(1만)를 넘을 것으로 보임, 예상 범위 1,500~3.3만, 근거 ①②③ — ③ 바로 위(상류) 지점의 최근 측정은 v2 설명, 지난 사건 7/7, 권고) | 2026-10-23 10시 |
-| 1:47~1:55 | 얼마나 잘 맞혔나 큰 숫자(28건 중 25건·8건 중 7건, v1 0.68 / 0.70 + v2(제출·운영) 0.70 / 0.82, 2026 v2 값은 블라인드 아님 표시) | 2026-10-23 10시 |
-| 1:55~2:03 | 비교 막대(지난주 값 3건)·28건 시간표 | 2026-10-21 |
-| 2:03~2:07 | 원래 목표 지표(원단위 결정계수 목표 0.6 → v1 0.17 / −0.05 · v2 0.18 / −0.01) | 2026-10-22 17시 |
-| 2:07~2:12 | 순환 모드(2배속) | 2026-10-23 10시 |
-| 2:12~2:21 | 성적표 띠: v1이 처음 보는 2026년 8건 중 7건·중앙 21일, 합계 28건 중 25건(89%)·중앙 14일, 제출 모델 v2도 같음 | 2026-10-23 10시 |
+| 0:08~0:51 | 추론 과정: v2.1 패키지 `notebooks/01_train_eval.ipynb` 를 새 가상환경 JupyterLab 에서 위에서부터 실행<br>① 고정 모델 검증(FROZEN.md·FROZEN_v2.md·FROZEN_v2.1.md 해시 OK) → ② 자료 로드·일 달력 정렬 → ③ 특징 35개(수위 평균·수온 기준은 기준일·학습 기간 자료로만)·평가 정답 격리 → ④ 학습 + 2025 검증표(v2.1·v1-fix 나란히: v2.1 로그 설명력 0.778, 경계 맞힘 0.705) → ⑤ submission.csv 124행 생성·검증(sha256 `4741a3d3…`) | 2026-10-23 |
+| 0:51~1:47 | 운영 화면(v2.1 최신 예측, 예상값 하나): 메인 상황판(첫 장면 자막에 녹화일·기준일) → 배너 → 강정·고령 타일(공식 관심 / AI 경계 진입 예상, 예상값 1.9만 개/mL·1만 넘을 가능성 92%) → 지도 → 지점 상세(예상값 1.9만이 경계(1만)를 넘을 것으로 보임, 예상 범위 1,300~3.5만, 근거 ①②③ — ③ 바로 위(상류) 지점의 최근 측정은 v2.1 설명, 지난 사건 7/7, 권고) | 2026-10-23 13시 |
+| 1:47~1:55 | 얼마나 잘 맞혔나 큰 숫자(28건 중 24건·2026년 8건 중 7건(2025년까지 자료로만 만든 v2.1, 블라인드 아님), 로그 설명력 0.78 / 0.52, 경계 맞힘 0.70 / 0.83) | 2026-10-23 13시 |
+| 1:55~2:03 | 비교 막대(이 시스템 86% · 지난주 값 11%)·28건 시간표(2026년 = 사후 계산) | 2026-10-23 13시 |
+| 2:03~2:07 | 원래 목표 지표(원단위 결정계수 목표 0.6 → v2.1 2025년 0.18 · 2026년 0.00) | 2026-10-23 13시 |
+| 2:07~2:12 | 순환 모드(2배속) | 2026-10-23 13시 |
+| 2:12~2:21 | 성적표 띠: 2025년까지 자료로만 만든 v2.1로 2026년 8건 중 7건·중앙 21일, 합계 28건 중 24건(86%)·중앙 14일 | 2026-10-23 13시 |
 | 2:21~2:28 | 엔딩 카드: 매일 05:00 자동 갱신 · 공식 발령을 대체하지 않는 운영 참고용 · URL · 자막 없음 | v1 영상에서 잘라 씀(숫자 없음) |
+
+## 편집 내역 (v5, 2026-10-23)
+**계산 결과나 화면 수치는 바꾸지 않았다.** 조립은 v3·v4 와 같은 `tools/assemble3.py` 로 했다. 노트북 원본은 `raw/notebook_full_run_v3.webm`(19분 43초, 셀 시각 `raw/notebook_cells_v3.json`), 운영 화면 원본은 `raw/web_scenes_v5/*.webm`(12장면)이다. 자막은 `tools/subs_v5.srt`. 타이틀·엔딩 카드는 v1 영상에서 잘라 쓴 그대로다(숫자 없음).
+
+| 영상 구간 | 내용 | 원본 구간 | 배속 |
+|---|---|---|---|
+| 0:08~0:16 | ① 고정 모델 검증 | 226.4~233.1초 (6.7초) | 0.84배 |
+| 0:16~0:25 | ② 자료 로드·일 달력 정렬 | 322.2~330.9초 (8.7초) | 0.97배 |
+| 0:25~0:33 | ③ 특징 생성·평가 정답 격리 | 421.0~883.8초 (462.8초) | **빨리감기 약 58배** (화면 표시 "x58") |
+| 0:33~0:39 | ④ 학습(동결 파라미터 재학습, 가중치 출력) | 884.0~896.9초 (12.9초) | **빨리감기 약 2배** (화면 표시 "x2") |
+| 0:39~0:43 | ④ 2025 검증표(v2.1·v1-fix 나란히) | 990.0~994.0초 | 실시간 |
+| 0:43~0:51 | ⑤ submission.csv 생성·검증 | 1085.0~1093.0초 | 실시간 |
+| 0:51~2:07 | 운영 화면 10개 장면 | 장면별 녹화 | 실시간 |
+| 2:07~2:12 | 순환 모드 | `web_scenes_v5/kiosk.webm` 10초 | **빨리감기 2배** (화면 표시 "x2") |
+| 2:12~2:21 | 성적표 띠(헤드라인) | `web_scenes_v5/score.webm` | 실시간 |
+
+- 바꾼 자막(v4 대비)
+  - ① 고정한 모델 검증 — v1·v2·v2.1 모델 파일 해시가 FROZEN·FROZEN_v2·FROZEN_v2.1과 일치
+  - ③ … / 수위 평균·수온 기준도 기준일·학습 기간 자료로만 · 평가 정답은 분리
+  - ④ 2025년 검증(제출 모델 v2.1) — 로그 기준 설명력 0.778 / 경계 맞힘 0.705 (지난주 값 그대로 0.727)
+  - ⑤ submission.csv 생성 — 124행(제출 모델 v2.1)
+  - 첫 장면: 녹조 통합관제 상황판 — 2026-10-23 녹화(제출 모델 v2.1)
+  - 강정·고령 타일·지점 상세: 1만 넘을 가능성 92% · 예상 범위 1,300~3.5만 (v4: 89% · 1,500~3.3만)
+  - 근거: … (v2.1 설명)
+  - 얼마나 잘 맞혔나: 경계 사건 28건 중 24건 미리 알림 (중앙 14일 앞서) / 2026년 8건 중 7건 (중앙 21일) · 2025년까지 자료로만 만든 v2.1
+  - 원래 목표 결정계수 0.6 → v2.1 2025년 0.18 · 2026년 0.00 / 약한 숫자도 그대로 보입니다 (2026 값은 사후 계산, 블라인드 아님)
+  - 헤드라인: 2025년까지 자료로만 만든 v2.1로 2026년 경계 사건 8건 중 7건, 중앙 21일 앞서 포착 / 2020~2026 합계 28건 중 24건 (86%, 중앙 14일)
+- 로딩 흰 화면·강조 전 구간 자르기: 메인 4.7초, 배너 2.5초, 타일 2.1초, 지도 2.5초, 지점 상세·근거 3.5초, 이력 3.7초, 성능 1.2초, 비교 막대 2.3초, 목표 지표 2.9초, 순환 모드 1.0초, 성적표 2.2초.
+- 목표 길이보다 짧은 장면의 마지막 프레임 정지: 타일 1.4초, 성적표 1.2초, 배너 1.1초, 지도 0.9초, 나머지 0.3초 이하.
+- 노트북 1부의 순서가 어긋난 프레임을 직전 프레임으로 바꿨다(`tools/nbfill.py`): ① 구간 4프레임, ④ 학습 구간 4프레임, 모두 8프레임. 노트북 출력(계산 결과)이 지워진 곳은 없다.
+- 1부 녹화에서는 JupyterLab 왼쪽 파일 목록이 열린 채 녹화됐다(v4 까지는 접힘). 노트북 출력은 모두 보인다.
+- 자동 점검: 0.5초 간격 296프레임에서 흰 화면·자막 띠 이상 0건.
 
 ## 편집 내역 (v4, 2026-10-23)
 **계산 결과나 화면 수치는 바꾸지 않았다.** v3 와 같은 조립(`tools/assemble3.py`)에서 운영 화면 10개 장면만 `raw/web_scenes_v4/*.webm`(프로덕션, 2026-10-23 10:09~10:11)로 바꾸고 자막 4개를 고쳤다(`tools/subs_v4.srt`). 노트북 1부·타이틀·엔딩 카드·비교 막대·원래 목표 지표 장면은 v3 와 같다.
@@ -72,9 +103,9 @@ v1 과 같다.
 - 타이틀·엔딩 카드에는 자막을 넣지 않았다.
 
 ### 5. 원본 녹화 보관
-- v4 원본은 운영 화면 재녹화 10개(2026-10-23 10시, `raw/web_scenes_v4/`)다. v2·v3 원본은 노트북 전체 녹화(17분 47초, 91 MB)와 운영 화면 재녹화 13개(2026-10-22 17시 3개·18시 10개)다. v1 원본(노트북 17분 3초, 89 MB, 운영 화면 12개)과 함께 저장소 `demo/raw/` 에 보관한다.
+- v5 원본은 노트북 전체 녹화(19분 43초, 102 MB, `raw/notebook_full_run_v3.webm`)와 운영 화면 12개(2026-10-23 13시, `raw/web_scenes_v5/`, 16 MB)다. v4 원본은 운영 화면 재녹화 10개(2026-10-23 10시, `raw/web_scenes_v4/`)다. v2·v3 원본은 노트북 전체 녹화(17분 47초, 91 MB)와 운영 화면 재녹화 13개(2026-10-22 17시 3개·18시 10개)다. v1 원본(노트북 17분 3초, 89 MB, 운영 화면 12개)과 함께 저장소 `demo/raw/` 에 보관한다.
 - **용량 때문에 제출 패키지에서는 뺐으며, 요청하면 제공한다.**
-- 편집 스크립트(녹화·조립·프레임 정리·자막·전수 검사)는 저장소 `demo/tools/` 에 있다. v2·v3·v4 조립은 `assemble3.py`, v1 조립은 `assemble2.py` 다.
+- 편집 스크립트(녹화·조립·프레임 정리·자막·전수 검사)는 저장소 `demo/tools/` 에 있다. v2~v5 조립은 `assemble3.py`, v1 조립은 `assemble2.py` 다.
 
 ### (참고) v1 편집 내역 — 2026-10-21 녹화본
 **계산 결과나 화면 수치는 바꾸지 않았다.** 노트북 출력(봉인 모델 검증, 2025 검증표, submission.csv 검증 결과)과 운영 화면의 숫자는 녹화 그대로다. 편집은 아래의 시간 배치(자르기·배속·정지 프레임), 알림 창 가림 제거, 화면 축소·자막에 한정했다.
@@ -122,4 +153,4 @@ v1 과 같다.
 - 편집 스크립트(녹화·조립·알림 영역 채우기·자막·전수 검사)는 저장소 `demo/tools/` 에 있다.
 
 ## 장면 캡처
-`captures/cap_3.png`(타이틀) · `cap_45.png`(submission.csv 생성, v2) · `cap_68.png`(강정·고령 타일) · `cap_85.png`(지점 상세) · `cap_115.png`(비교 막대) · `cap_135.png`(헤드라인, v2) — v4 영상에서 다시 뽑았다.
+`captures/cap_3.png`(타이틀) · `cap_45.png`(submission.csv 생성, v2.1) · `cap_68.png`(강정·고령 타일) · `cap_85.png`(지점 상세) · `cap_115.png`(비교 막대·시간표) · `cap_135.png`(헤드라인, v2.1) — v5 영상에서 다시 뽑았다.

diff --git a/demo/script.md b/demo/script.md
@@ -21,7 +21,17 @@
 > - 강정·고령 타일: 예상값 1.9만 · 1만 넘을 가능성 89%
 > - 지점 상세('왜 9,100인데 91%?' 장면 교체): 예상값 1.9만이 경계(1만)를 넘을 것으로 보입니다 / 1만 넘을 가능성 89% · 예상 범위 1,500~3.3만
 
-> 녹화 전 승인한 콘티다. 실제 편집 결과(구간별 원본 위치·배속, 알림 창 영역 처리, 자막 배치)는 `README_DEMO.md` 의 "편집 내역" 절을 따른다.
+> **v5 갱신(2026-10-23 13시).** 제출·운영 모델을 v2.1(데이터 유래 상수 누수 수정판)로 바꾼 뒤 1부(노트북)를 v2.1 패키지로, 2부 12개 장면을 모두 다시 녹화했다. 시간 배치는 같고, 바뀐 자막은 다음과 같다. v2.1 의 2026 결과는 사후 계산이므로 '처음 보는'·'블라인드' 표현을 쓰지 않는다.
+> - ① 고정한 모델 검증 — v1·v2·v2.1 모델 파일 해시가 FROZEN·FROZEN_v2·FROZEN_v2.1과 일치
+> - ③ … / 수위 평균·수온 기준도 기준일·학습 기간 자료로만 · 평가 정답은 분리
+> - ④ 2025년 검증(제출 모델 v2.1) — 로그 기준 설명력 0.778 / 경계 맞힘 0.705 (지난주 값 그대로 0.727)
+> - ⑤ submission.csv 생성 — 124행(제출 모델 v2.1)
+> - 강정·고령: 예상값 1.9만 · 1만 넘을 가능성 92% · 예상 범위 1,300~3.5만, 근거 ③ (v2.1 설명)
+> - 얼마나 잘 맞혔나: 경계 사건 28건 중 24건 미리 알림 (중앙 14일 앞서) / 2026년 8건 중 7건 (중앙 21일) · 2025년까지 자료로만 만든 v2.1
+> - 원래 목표 결정계수 0.6 → v2.1 2025년 0.18 · 2026년 0.00 / 약한 숫자도 그대로 보입니다 (2026 값은 사후 계산, 블라인드 아님)
+> - 헤드라인: 2025년까지 자료로만 만든 v2.1로 2026년 경계 사건 8건 중 7건, 중앙 21일 앞서 포착 / 2020~2026 합계 28건 중 24건 (86%, 중앙 14일)
+>
+> 아래 1·2·3부 표는 녹화 전 승인한 처음 콘티(v1)다. 실제 편집 결과(구간별 원본 위치·배속, 알림 창 영역 처리, 자막 배치)는 `README_DEMO.md` 의 "편집 내역" 절을 따른다.
 
 - 근거: docs/11 §2 콘티 + docs/07 §7 시나리오를 2026-10-21 개편 화면(docs/12)과 상태 라벨 체계(공식 발령 × AI 예상)에 맞게 고침.
 - 녹화: Playwright(Chromium, 1920×1080) — ① JupyterLab(제출 패키지 `notebooks/01_train_eval.ipynb`), ② 프로덕션 https://algaecast-7.vercel.app. ffmpeg 로 이어 붙이고 SRT 를 하드 자막으로 입힘.
